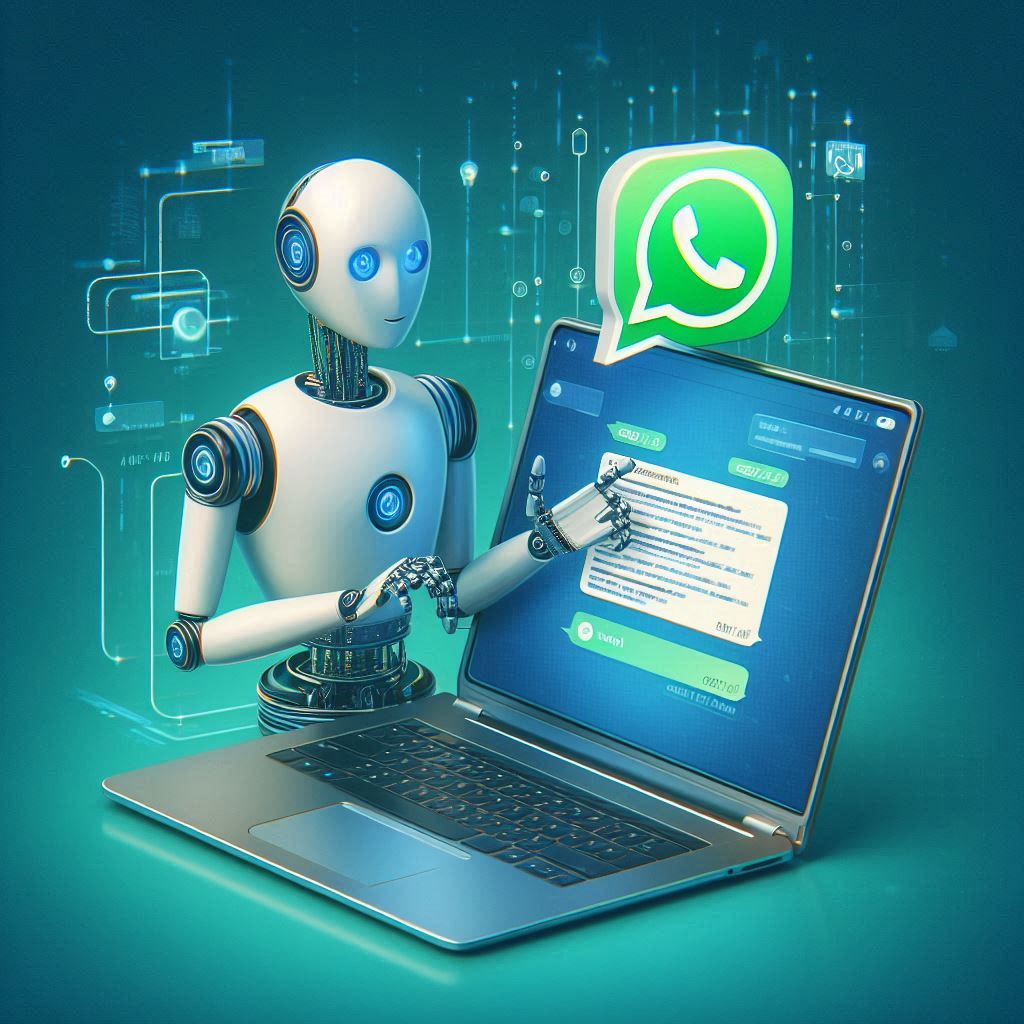
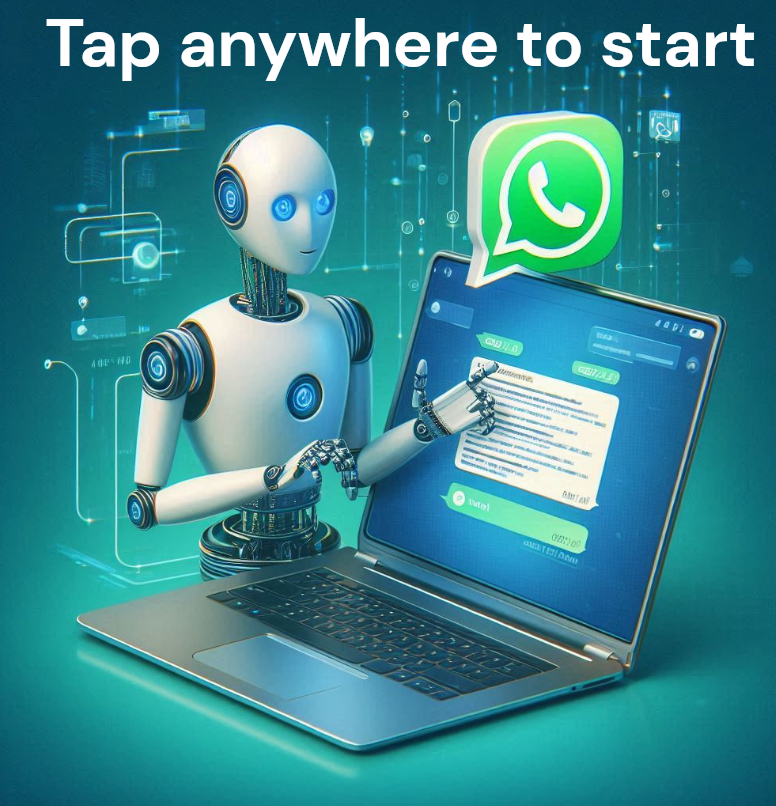
Final!!

diff --git a/main.py b/main.py
@@ -1,9 +1,94 @@
 import cv2
 import mediapipe as mp
 from message_2 import send_message
-import tkinter as tk 
-import time
-from PIL import Image, ImageTk
+from kivy.app import App
+from kivy.uix.widget import Widget
+from kivy.uix.image import Image
+from kivy.animation import Animation
+from kivy.uix.boxlayout import BoxLayout
+from kivy.uix.label import Label
+from kivy.uix.button import Button
+from kivy.uix.textinput import TextInput
+from kivy.clock import Clock
+from kivy.core.window import Window
+
+class MainUI(BoxLayout):
+    def __init__(self, **kwargs):
+        super(MainUI, self).__init__(**kwargs)
+        # self.background_color = (0.529, 0.807, 0.917, 1)
+        self.orientation = 'vertical'
+        self.spacing = 10  # Reduce the spacing between widgets
+        self.padding = 20
+
+        # self.Name = Label(text='[i][b]Automatic Message Sender[/b][/i]', color = [0,0,1,0],font_size=30, pos_hint={'center_x': 0.5, 'center_y': 0.95},markup=True)
+        # self.add_widget(self.Name)
+        
+        self.phone_label = Label(text='[i]Contact Saved:[/i]', color = [0,0,0,1],font_size=30, pos_hint={'center_x': 0.5, 'center_y': 0.9},markup=True)
+        self.add_widget(self.phone_label)
+
+        self.contact_name = TextInput(hint_text='Enter contact name', multiline=False, size_hint=(0.8, 0.2), pos_hint={'center_x': 0.5, 'center_y': 0.85}, padding='3dp')  # Add padding to the TextInput
+        self.add_widget(self.contact_name)
+
+        self.message_label = Label(text='[i]Message:[/i]',color = [0,0,0,1], font_size=24+6, pos_hint={'center_x': 0.5, 'center_y': 0.5}, markup=True)
+        self.add_widget(self.message_label)
+
+        self.message_entry = TextInput(hint_text='Enter message', multiline=True, size_hint=(0.8, 0.4), pos_hint={'center_x': 0.5, 'center_y': 0.45}, padding='3dp')  # Add padding to the TextInput
+        self.add_widget(self.message_entry)
+        
+        self.start_button = Button(text='[i][b]Start Hand Gesture[/b][/i]', size_hint=(None, None), size=(300, 60), pos_hint={'center_x': 0.5, 'center_y': 0.1}, background_color=[1, 0, 0, 0.7], color=[0, 0, 0, 1], markup=True)
+        self.start_button.bind(on_press=self.start_hand_gesture)
+        self.add_widget(self.start_button)
+        
+        self.quit_button = Button(text='[i]Quit[/i]', size_hint=(None, None), size=(300, 60), pos_hint={'center_x': 0.5, 'center_y': 0.05}, background_color=[0, 1, 0, 0.7], color=[0, 0, 0, 1], markup=True)
+        self.quit_button.bind(on_press=self.quit_application)
+        self.add_widget(self.quit_button)
+    
+    def start_hand_gesture(self, instance):
+        global name, mess
+        name = self.contact_name.text
+        mess = self.message_entry.text
+        # Close the Kivy app
+        App.get_running_app().stop()
+        # Start hand tracking
+        start_hand_track(True)
+        
+    def quit_application(self, instance):
+        App.get_running_app().stop()
+
+class LogoWidget(BoxLayout):
+    def __init__(self, **kwargs):
+        super(LogoWidget, self).__init__(**kwargs)
+        self.orientation = 'vertical'
+        self.image = Image(source='Designer (2).png', allow_stretch=True, keep_ratio=False)
+        self.add_widget(self.image)
+        
+        Clock.schedule_once(self.fade_in, 1)
+    
+    def fade_in(self, dt):
+        fade_in = Animation(opacity=1, duration=3)
+        fade_in.start(self.image)
+        self.image.bind(on_touch_down=self.on_logo_touch)
+    
+    def on_logo_touch(self, instance, touch):
+        if self.collide_point(*touch.pos):
+            self.fade_out()
+    
+    def fade_out(self):
+        fade_out = Animation(opacity=0, duration=3)
+        fade_out.bind(on_complete=self.switch_to_main)
+        fade_out.start(self.image)
+    
+    def switch_to_main(self, *args):
+        app = App.get_running_app()
+        app.root.clear_widgets()
+        app.root.add_widget(MainUI())
+
+class MyApp(App):
+    def build(self):
+        Window.clearcolor = (0.8, 0.6, 0.6, 1) # Set the background color here
+        root = BoxLayout(orientation='vertical')
+        root.add_widget(LogoWidget())
+        return root
 
 def start_hand_track(Check):
     # Initialize the camera
@@ -13,16 +98,7 @@ def start_hand_track(Check):
     hand_detector = mp.solutions.hands.Hands()
     mp_draw = mp.solutions.drawing_utils
 
-    # Replace with your WhatsApp phone number (including country code)
-    # phone_number = "+91 9219083613"
-
-    # Replace with the name of the contact you want to send the message to
-    # contact_name = "Chuwii 👻"
-
-    # Replace with the message you want to send
-    # message = "Hello from Python!"
-
-    while Check == True:
+    while Check:
         # Read a frame from the camera
         ret, frame = cap.read()
 
@@ -52,7 +128,7 @@ def start_hand_track(Check):
                 yellow_x = int(landmarks[8].x * frame.shape[1])
                 yellow_y = int(landmarks[8].y * frame.shape[0])
 
-                # Get the coordinates of the blue circled index (id=5)
+                                # Get the coordinates of the blue circled index (id=5)
                 blue_x = int(landmarks[5].x * frame.shape[1])
                 blue_y = int(landmarks[5].y * frame.shape[0])
 
@@ -61,8 +137,8 @@ def start_hand_track(Check):
 
                 # If the distance is low, send a message to the contact
                 if distance < 50:
-                    send_message(name,mess)
-                    print("Message sent! to the user succesfully")
+                    send_message(name, mess)
+                    print("Message sent to the user successfully")
 
         # Convert the frame back to BGR for display
         frame = cv2.cvtColor(frame, cv2.COLOR_RGB2BGR)
@@ -72,87 +148,12 @@ def start_hand_track(Check):
 
         # Exit on key press
         if cv2.waitKey(1) & 0xFF == ord('q'):
-            Check=False
+            Check = False
             break
 
     # Release the camera and close the window
     cap.release()
     cv2.destroyAllWindows()
 
-def quit_window():
-    window.destroy()
-
-def start_hand_gesture():
-    global mess 
-    global name
-    name = str(saved_contact_name.get())
-    mess = str(message_entry.get())
-    window.destroy()  # Close the tkinter window
-    start_hand_track(True)  # Start the hand gesture tracking function
-
-# Load the image from the subdirectory
-image_path = "Designer (2).png"
-image = Image.open(image_path)
-photo = ImageTk.PhotoImage(image)
-
-# Create the main window
-window = tk.Tk()
-window.title("Hand Gesture Tracker")
-window.geometry("600x650")  # Set the window size
-window.configure(background='#87CEEB')  # Light blue color
-
-# Load the image from the subdirectory
-image_path = "Designer (2).png"
-image = Image.open(image_path)
-photo = ImageTk.PhotoImage(image)
-
-# Create a label to display the image
-image_label = tk.Label(window, image=photo)
-image_label.pack()
-
-# Define a function to fade in the image
-def fade_in():
-    for i in range(26):
-        image_label.image = photo  # Keep a reference to the image
-        image_label.config(bg=f"#87CEEB{hex(i*10)[2:].zfill(2)}")  # Adjusting alpha by modifying the background color
-        window.update()
-        time.sleep(0.1)
-
-# Define a function to fade out the image
-def fade_out():
-    for i in range(25, -1, -1):
-        image_label.config(bg=f"#87CEEB{hex(i*10)[2:].zfill(2)}")  # Adjusting alpha by modifying the background color
-        window.update()
-        time.sleep(0.1)
-    image_label.pack_forget()  # Remove the image label
-    show_main_ui()  # Show the main UI after fade-out
-
-# Function to show the main UI
-def show_main_ui():
-    # Create labels and entry fields
-    phone_number_label = tk.Label(window, text="Contact Saved", font=("Arial", 20, "italic", "bold"), fg="black", bg='#87CEEB')
-    phone_number_label.pack(pady=20)
-    global saved_contact_name
-    saved_contact_name = tk.Entry(window, width=30, font=("Arial", 20, "italic"), fg="black", bg="white", highlightthickness=2, highlightcolor="black", highlightbackground="black")
-    saved_contact_name.pack(pady=20)
-
-    message_label = tk.Label(window, text="Message:", font=("Arial", 20, "italic", "bold"), fg="black", bg='#87CEEB')
-    message_label.pack(pady=20)
-    global message_entry
-    message_entry = tk.Entry(window, width=30, font=("Arial", 20, "italic"), fg="black", bg="white", highlightthickness=2, highlightcolor="black", highlightbackground="black")
-    message_entry.pack(pady=20)
-
-    # Create buttons
-    start_button = tk.Button(window, text="Start Hand Gesture", command=start_hand_gesture, font=("Arial", 20, "italic", "bold"), fg="black", bg="#C6F7D0", height=2, width=20)
-    start_button.pack(pady=20)
-
-    quit_button = tk.Button(window, text="Quit", command=quit_window, font=("Arial", 20, "italic", "bold"), fg="black", bg="#FFC5C5", height=2, width=20)
-    quit_button.pack(pady=20)
-
-# Fade in the image when the window is opened
-fade_in()
-
-# Bind the fade out function to a click event on the window
-window.bind("<Button-1>", lambda event: fade_out())
-
-window.mainloop()
+if __name__ == '__main__':
+    MyApp().run()

diff --git a/tempCodeRunnerFile.py b/tempCodeRunnerFile.py
@@ -1,57 +1,3 @@
-def send_message(name,mess):
-    import pyautogui
-    import time
-    
-    # Open WhatsApp desktop application
-    pyautogui.press('winleft')  # Open Start menu (Windows) or Command + Space (Mac)
-    pyautogui.typewrite('WhatsApp')  # Type WhatsApp in the search bar
-    pyautogui.press('enter')  # Open WhatsApp
-    
-    # Open WhatsApp desktop application using Windows key + 7
-    # pyautogui.hotkey('winleft', '7')
-    # time.sleep(2)  # Wait for WhatsApp to open
-    
-    
-    
-    # Wait for WhatsApp to load
-    time.sleep(5)
-    
-    # Simulate Ctrl+F shortcut to search for the recipient's name
-    pyautogui.hotkey('ctrl', 'f')
-    
-    # Type the recipient's name
-    pyautogui.typewrite(name)
-    
-    
-    # Move the mouse to the search result
-    # pyautogui.moveTo(263, 234)  # Adjust the coordinates to match your screen
-    # time.sleep(1)
-    # pyautogui.click()
-    #opened the chat now will type the message 
-    
-    # Simulate down arrow key press to select the search result
-    pyautogui.press('down') 
-    pyautogui.press('enter')
-    time.sleep(0.5)
-    # to open the chat another approach 
-    
-    
-    # pyautogui.press('enter')
-    time.sleep(1.2)
-    
-    # Click on the chat window
-    # pyautogui.click(300, 200)  # Adjust the coordinates to match your screen
-    
-    # Type the message
-    pyautogui.typewrite(mess)
-    pyautogui.press('enter')
-    
-    # Wait for the message to be sent
-    time.sleep(2)
-    
-    # Close the WhatsApp window
-    pyautogui.hotkey('alt', 'f4')
-    
-    exit
-    
-send_message('Aditya','Hey another test message ')
+self.Name = Label(text='[i][b]Automatic Message Sender[/b][/i]', color = [0,0,1,0],font_size=30, pos_hint={'center_x': 0.5, 'center_y': 0.95},markup=True)
+        # self.add_widget(self.Name)
+        

diff --git a/message_2.py b/message_2.py
@@ -18,6 +18,7 @@ def send_message(name,mess):
     
     # Simulate Ctrl+F shortcut to search for the recipient's name
     pyautogui.hotkey('ctrl', 'f')
+    time.sleep(2)
     
     # Type the recipient's name
     pyautogui.typewrite(name)
